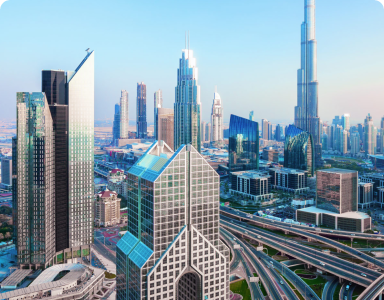
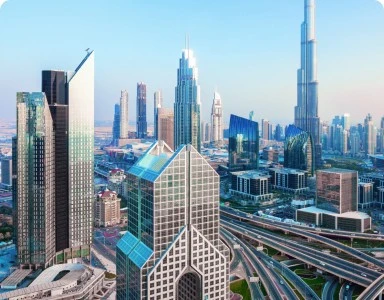
v2.0.22 dynamicImport Optimization

diff --git a/src/app/components/Header.js b/src/app/components/Header.js
@@ -1,32 +1,33 @@
 "use client";
 import Image from "next/image";
+import { usePathname } from "next/navigation";
 import React, { useEffect, useState } from "react";
-import Link from "next/link";
 
 function Header() {
   const [isActive, setIsActive] = useState("Home");
+  const pathname = usePathname();
 
   const menuList = [
     // "Our Presence ⮟"
     { text: "Home", href: "/" },
     // { text: "Our Presence", href: "/" },
-    { text: "About Us", href: "/pages/About" },
-    { text: "Services", href: "/pages/Services" },
+    { text: "About Us", href: "/pages/About/" },
+    { text: "Services", href: "/pages/Services/" },
     // { text: "Blogs", href: "/" },
-    { text: "Contact Us", href: "/pages/Contact" },
+    { text: "Contact Us", href: "/pages/Contact/" },
   ];
 
-  const handleClick = (text) => {
-    setIsActive(text);
-    localStorage.setItem("activeMenuItem", text);
-  };
+  // const handleClick = (text) => {
+  //   setIsActive(text);
+  //   localStorage.setItem("activeMenuItem", text);
+  // };
 
-  useEffect(() => {
-    const storedActiveMenuItem = localStorage.getItem("activeMenuItem");
-    if (storedActiveMenuItem) {
-      setIsActive(storedActiveMenuItem);
-    }
-  }, []);
+  // useEffect(() => {
+  //   const storedActiveMenuItem = localStorage.getItem("activeMenuItem");
+  //   if (storedActiveMenuItem) {
+  //     setIsActive(storedActiveMenuItem);
+  //   }
+  // }, []);
 
   return (
     <>
@@ -50,9 +51,10 @@ function Header() {
               {menuList.map((item, index) => (
                 <li
                   key={index}
-                  className={`huListTransitionWrapper ${
-                    item.text === isActive ? "active" : ""
-                  }`}
+                  // className={`huListTransitionWrapper ${
+                  //   item.text === isActive ? "active" : ""
+                  // }`}
+                  className={`huListTransitionWrapper ${pathname === item.href ? "active" : ""}`}
                   onClick={() => handleClick(item.text)}
                 >
                   <a href={item.href}>
@@ -74,7 +76,7 @@ function Header() {
                   height={18}
                   alt="heroContact"
                 />
-               +971 568 352 250
+                +971 568 352 250
               </div>
               <div className="bottomVisibleContainer btn">
                 <Image
@@ -83,7 +85,7 @@ function Header() {
                   height={18}
                   alt="heroContact"
                 />
-               +971 568 352 250
+                +971 568 352 250
               </div>
             </div>
           </div>

diff --git a/src/app/components/Footer.js b/src/app/components/Footer.js
@@ -8,31 +8,32 @@ function Footer() {
       <div className="topContainer">
         <div className="footerLogoContainer">
           <Image
-            quality={100}
-            priority={true}
-            unoptimized
             src="/NewSvgs/Logos/beaconWhite.svg"
-            width={170}
-            height={60}
+            layout="fill"
+            objectFit="contain"
+            objectPosition="center"
             alt="ImageFooter1"
+            quality={100}
+            loading="lazy"
+            unoptimized
           />
         </div>
         <div className="footerContentContainer">
           <ul className="footercontent">
             <a href="/">
-              <li>Home</li>
+              <p>Home</p>
             </a>
             <a href="/pages/About">
-              <li>About Us</li>
+              <p>About Us</p>
             </a>
             <a href="/pages/Services">
-              <li>Services</li>
+              <p>Services</p>
             </a>
-            <a>
-              <li>Blogs</li>
+            <a href="/">
+              <p>Blogs</p>
             </a>
             <a href="/pages/Contact">
-              <li>Contact</li>
+              <p>Contact</p>
             </a>
           </ul>
         </div>
@@ -93,12 +94,12 @@ function Footer() {
               <div className="footerContactTextDetails">
                 <h1>Head Office:</h1>
                 <p className="dAddress">
-                  Office #39, 7th Floor, Dubai National Insurance<br /> Building,
-                   Port Saeed Deira, Dubai, UAE
+                  Office #39, 7th Floor, Dubai National Insurance
+                  <br /> Building, Port Saeed Deira, Dubai, UAE
                 </p>
                 <p className="mAddress">
-                  Office #39, 7th Floor, Dubai National Insurance Building,
-                   Port Saeed Deira, Dubai, UAE
+                  Office #39, 7th Floor, Dubai National Insurance Building, Port
+                  Saeed Deira, Dubai, UAE
                 </p>
               </div>
             </a>
@@ -160,7 +161,10 @@ function Footer() {
         <p className="footerCopyRight">
           © 2023 by Beacon Management Consultants CO.LTD | All Right Reserved |
           Powered by{" "}
-          <a href="https://procube.cx/" style={{ textDecoration: "underline",color:'#fff' }}>
+          <a
+            href="https://procube.cx/"
+            style={{ textDecoration: "underline", color: "#fff" }}
+          >
             procube.cx
           </a>
         </p>

diff --git a/src/app/components/Clients.js b/src/app/components/Clients.js
@@ -1,6 +1,7 @@
 "use client";
 import { motion, useAnimation } from "framer-motion";
 import React, { useEffect, useState } from "react";
+import { LazyMotion, domAnimation, m } from "framer-motion"
 import Image from "next/image";
 import Stats from "./Stats";
 
@@ -67,10 +68,10 @@ function Clients() {
         <h6 className="businessHeading">our CLIENTS</h6>
         <h2 className="businessDesc">Our core partners</h2>
       </div>
-      <div className="clientsImgContainer">
+      <LazyMotion features={domAnimation} className="clientsImgContainer">
         <ScrollingLogos />
         {/* <ScrollableRow /> */}
-      </div>
+      </LazyMotion>
       <div className="testimonialMainContainer">
         <div className="businessContentContainer">
           <h6 className="businessHeading">CLIENT REVIEWS</h6>
@@ -102,12 +103,13 @@ function Clients() {
                   <div className="testiImg">
                     <Image
                       src={data.img}
-                      width={67}
-                      height={60}
+                      layout='fill'
+                      objectFit="cover"
+                      objectPosition="center"
                       alt={`person ${index}`}
                       quality={100}
-                      priority={true}
                       unoptimized
+                      loading="lazy"
                     />
                   </div>
                   <div>
@@ -204,7 +206,7 @@ function ScrollingLogos() {
   }, []);
 
   return (
-    <motion.div
+    <m.div
       className="scrolling-logos"
       initial={{ x: "0%" }}
       animate={controls}
@@ -739,7 +741,7 @@ function ScrollingLogos() {
         alt="ImageClients"
         className="logoClients"
       />
-    </motion.div>
+    </m.div>
   );
 }
 export { Clients, ScrollingLogos };

diff --git a/src/app/globals.css b/src/app/globals.css
@@ -409,6 +409,17 @@ li{
   height: 435px;
 }
 
+.juriCardImage{
+  position: relative;
+  height: 400px;
+  border-radius: 5px;
+}
+
+.juriCardImage img{
+  border-top-right-radius: 10px;
+  border-top-left-radius: 10px;
+}
+
 .juriContent{
   border-radius: 0px 0px 10px 10px;
   background: #11215B;
@@ -541,7 +552,7 @@ li{
 }
 
 .backNew {
-  background: #03446A;
+  background: transparent;
   color: white;
   transform: rotateY( 180deg );
 }
@@ -1121,15 +1132,25 @@ li{
   border-radius: 10px;
 }
 
+.testiImg{
+  position: relative;
+  width: 15%;
+  height: 40px;
+}
+
+.testiImg img{
+  border-radius: 50%;
+}
+
 .testimonialProfile:nth-child(3){
   margin: 0px;
 }
-
+/* 
 .testimonialProfile img{
   border-radius: 50%;
   object-position: top;
   object-fit: cover;
-}
+} */
 
 .profileName{
   color: rgba(255, 255, 255, 1);
@@ -1356,7 +1377,7 @@ li{
 }
 
 .contactContainer {
-  background: url("../../public/NewSvgs/Backgrounds/uaeBg2.jpg");
+  background: url("../../public/NewSvgs/Backgrounds/uaeBg2.webp");
   width: 100%;
   height: 450px;
   object-fit: cover;
@@ -1425,12 +1446,18 @@ li{
   justify-content: space-between;
 }
 
+.footerLogoContainer{
+  position: relative;
+  height: 50px;
+  width: 180px;
+}
+
 .footercontent{
   display: flex;
   gap: 35px;
 }
 
-.footercontent li{
+.footercontent p{
   color: #FFF;
   font-size: 16px;
   font-style: normal;

diff --git a/src/app/page.js b/src/app/page.js
@@ -1,15 +1,15 @@
 "use client";
-import Header from "./components/Header";
-import Hero from "./components/Hero";
 import Services from "./components/Services";
 import { Clients, ScrollingLogos } from "./components/Clients";
 import Faq from "./components/Faq";
-import MobileHeader from "./components/MobileHeader";
 import { useEffect, useState } from "react";
 import dynamic from "next/dynamic";
 
 
 const LoadingCircle = dynamic(() => import('@/app/components/LoadingCircle'));
+const Header = dynamic(() => import('@/app/components/Header'));
+const MobileHeader = dynamic(() => import('@/app/components/MobileHeader'));
+const Hero = dynamic(() => import('@/app/components/Hero'));
 const Locations = dynamic(() => import('@/app/components/Locations'));
 const Jurisdiction = dynamic(() => import('@/app/components/Jurisdiction'));
 const Places = dynamic(() => import('@/app/components/Places'));

diff --git a/src/app/components/Brands.js b/src/app/components/Brands.js
@@ -1,6 +1,6 @@
 "use client";
 import React, { useEffect, useState } from "react";
-import { motion, useAnimation } from "framer-motion";
+import { LazyMotion, domAnimation, m, useAnimation } from "framer-motion"
 import Image from "next/image";
 
 function Brands({ imageSources, initialAnimateValue  }) {
@@ -62,8 +62,8 @@ function Brands({ imageSources, initialAnimateValue  }) {
     handleHoverEnd();
   }, []);
   return (
-    <div>
-      <motion.div
+    <LazyMotion features={domAnimation}>
+      <m.div
         className="scrolling-logos"
         initial={{ x: "0%" }}
         animate={controls}
@@ -84,8 +84,8 @@ function Brands({ imageSources, initialAnimateValue  }) {
             className="logoClients"
           />
         ))}
-      </motion.div>
-    </div>
+      </m.div>
+    </LazyMotion>
   );
 }
 

diff --git a/src/app/components/Jurisdiction.js b/src/app/components/Jurisdiction.js
@@ -57,13 +57,13 @@ function Jurisdiction() {
             <div className="juriCardImage">
               <Image
                 src={data.img}
-                width={500}
-                height={500}
+                layout='fill'
+                objectFit="cover"
+                objectPosition="center"
                 alt={`juri ${index}`}
-                layout="responsive"
                 quality={100}
-                priority={true}
                 unoptimized
+                loading="lazy"
               />
             </div>
             <div className="juriContent">

diff --git a/tailwind.config.js b/tailwind.config.js
@@ -1,6 +1,5 @@
 /** @type {import('tailwindcss').Config} */
 module.exports = {
-  purge: ['./src/**/*.js'],
   content: [
     './src/pages/**/*.{js,ts,jsx,tsx,mdx}',
     './src/components/**/*.{js,ts,jsx,tsx,mdx}',
